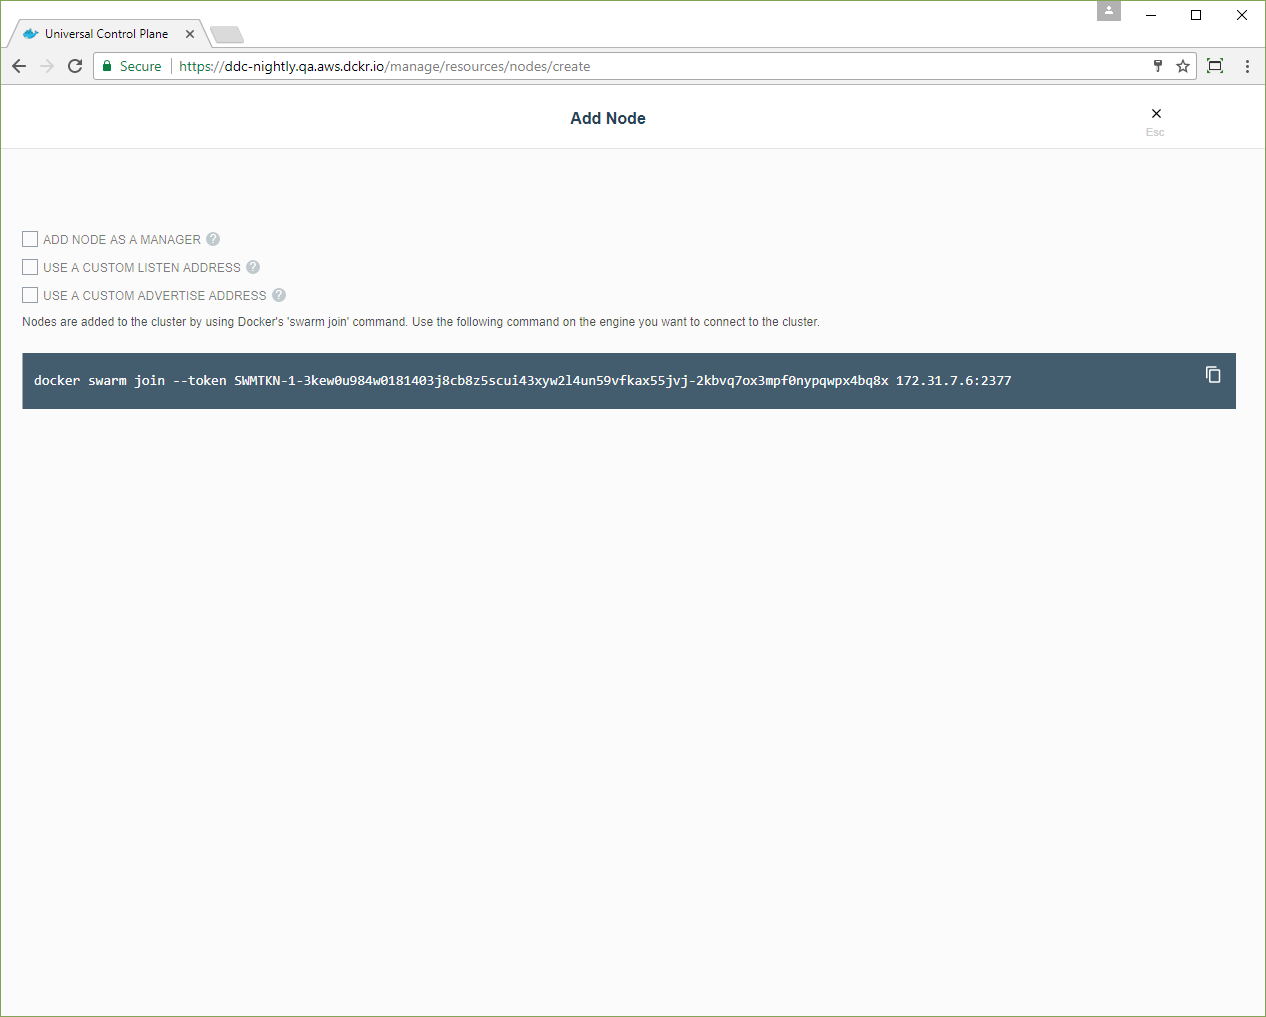
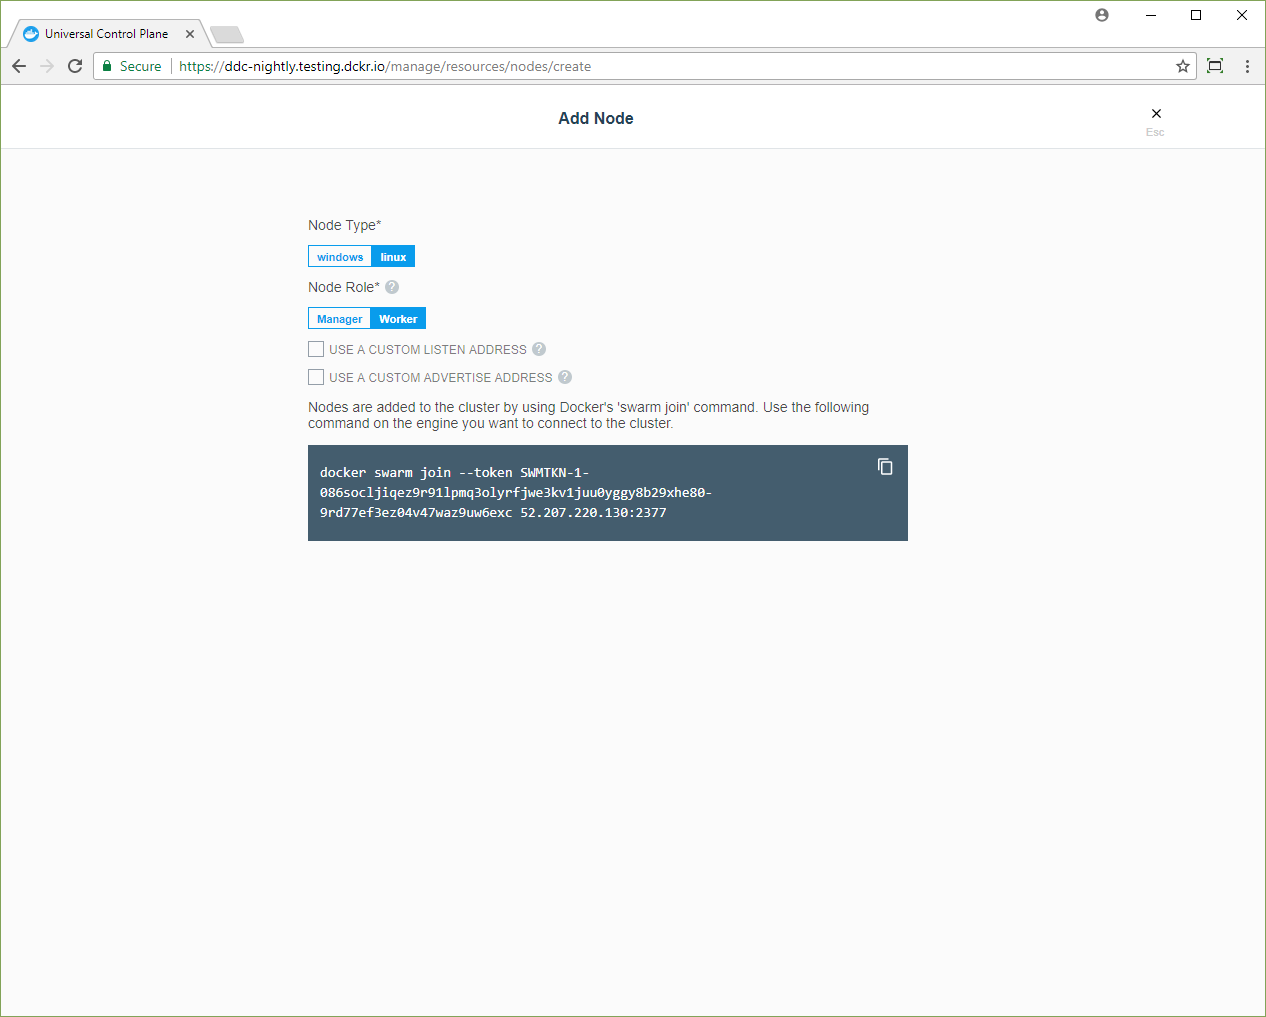
Update screenshot

diff --git a/datacenter/ucp/2.2/guides/admin/configure/scale-your-cluster.md b/datacenter/ucp/2.2/guides/admin/configure/scale-your-cluster.md
@@ -48,8 +48,7 @@ Click **Add Node** to add a new node.
 
 ![](../../../../../images/try-ddc-3.png){: .with-border}
 
--  Check the **Add node as a manager** option if you want to add the node as
-   manager. 
+-  Click **Manager** if you want to add the node as a manager. 
 -  Check the **Use a custom listen address** option to specify the
    IP address of the host that you'll be joining to the cluster.
 -  Check the **Use a custom listen address** option to specify the
@@ -58,13 +57,13 @@ Click **Add Node** to add a new node.
 Copy the displayed command, use ssh to log into the host that you want to
 join to the cluster, and run the `docker swarm join` command on the host.
 
+To add a Windows node, click **Windows** and follow the instructions in
+[Join Windows worker nodes to a swarm](join-windows-worker-nodes.md). 
+
 After you run the join command in the node, the node is displayed in the UCP
 web UI.
 
 ![](../../images/scale-your-cluster-2.png){: .with-border}
-
-To add Windows nodes, follow the instructions in
-[Join Windows worker nodes to a swarm](join-windows-worker-nodes.md). 
 
 ## Remove nodes from the cluster
 
